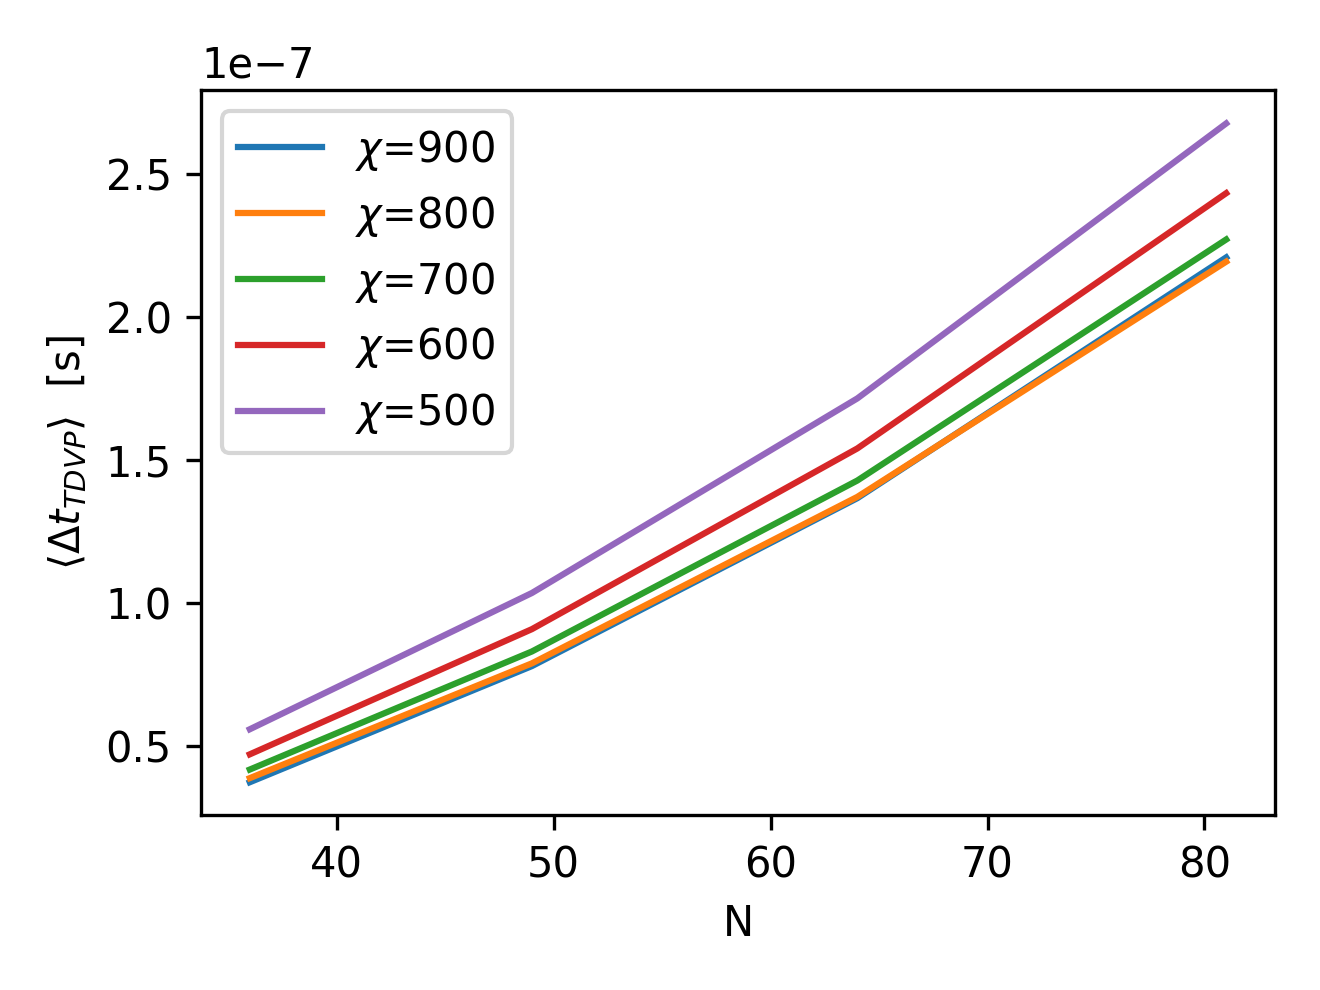
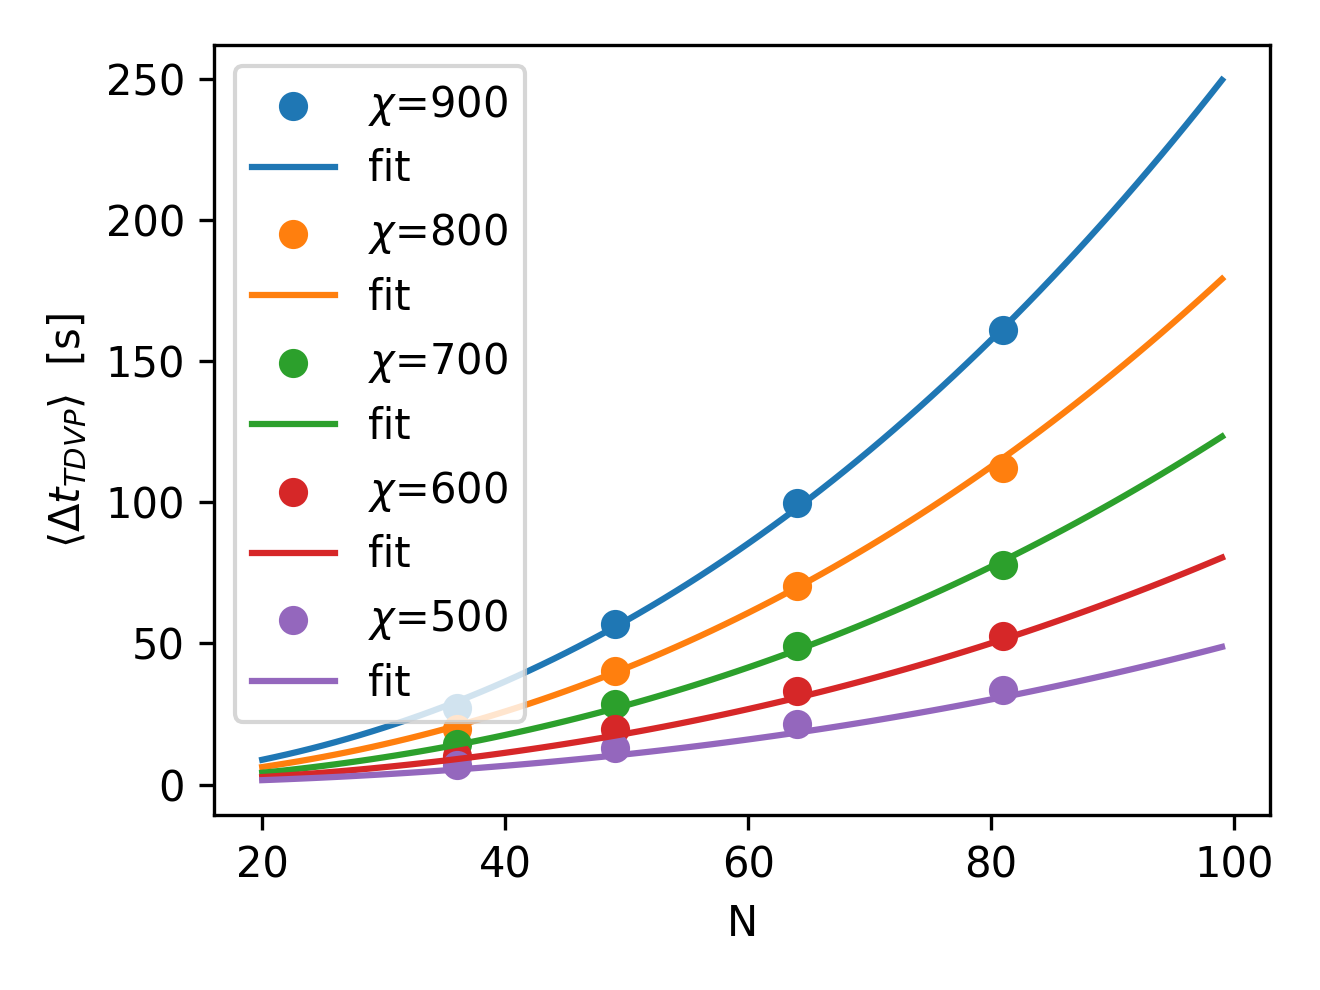
runtime fit and map

diff --git a/ci/emu_mps/benchmarks/tdvp_performance_gpu/plot_bechmark.py b/ci/emu_mps/benchmarks/tdvp_performance_gpu/plot_bechmark.py
@@ -2,8 +2,7 @@ from pathlib import Path
 import json
 import numpy as np
 import matplotlib.pyplot as plt
-
-# from scipy.optimize import curve_fit
+from scipy.optimize import curve_fit
 
 script_dir = Path(__file__).parent
 res_dir = script_dir / "results"
@@ -39,18 +38,22 @@ def worstRSS(chi, n, krylov_dim):
     return 4 * (chi**2) * (n**2 + 34 * n + 16 * krylov_dim + 64) / 1e9
 
 
+# to numpy
+N = np.array([n**2 for n in N])
+bond_dims = np.array(bond_dims)
+
 scale_factor = 1.1
 figsize = (scale_factor * 4, scale_factor * 3)
 dpi = 300
 
 fig, ax = plt.subplots(figsize=figsize)
 for i, chi in enumerate(bond_dims):  # /chi**2
-    ax.scatter(np.array(N) ** 2, RSS[i, :] / chi**2, label=rf"$\chi$={chi}")
+    ax.scatter(N, RSS[i, :] / chi**2, label=rf"$\chi$={chi}")
 ax.plot(
     np.arange(10, 100, 1),
     worstRSS(1, np.arange(10, 100, 1), 30),
     color="black",
-    label=r"$maxRSS(N,k=30)$",
+    label=r"$m(N,\chi,k=30)/\chi^2$",
 )
 ax.legend()
 ax.set_xlabel("N")
@@ -58,24 +61,27 @@ ax.set_ylabel(r"RSS/ $\chi^2$ [GB]")
 plt.tight_layout()
 plt.savefig(script_dir / "RSS_vs_N.png")
 
-fig, ax = plt.subplots(figsize=figsize, dpi=dpi)
-for i, n in enumerate(N):
-    ax.scatter(bond_dims, RSS[:, i], label=f"N = {n**2}")
-    ax.plot(
-        np.arange(400, 1000, 1),
-        worstRSS(np.arange(400, 1000, 1), n**2, 30),
-        color="black",
-        label=r"$maxRSS(N,k=30)$",
-    )
-ax.legend()
-ax.set_xlabel(r"$\chi$")
-ax.set_ylabel("RSS [GB]")
-plt.tight_layout()
-plt.savefig(script_dir / "RSS_vs_bond_dim.png")
+# RUNTIME
+
+# runtime 2D fit
+X, Y = np.meshgrid(N, bond_dims)
+
+
+def func(xy, b, c):
+    x, y = xy
+    # return a + b * x + c * y + d * x**2 + e * y**2 + f * x * y
+    return b * (x**2) * (y**3) + c * (x**3) * (y**2)
+
+
+# Perform curve fitting
+popt, pcov = curve_fit(func, (X.flatten(), Y.flatten()), runtime.flatten())
+
 
 fig, ax = plt.subplots(figsize=figsize, dpi=dpi)
-for i, chi in enumerate(bond_dims):  # / chi**3
-    ax.plot(np.array(N) ** 2, runtime[i, :] / chi**3, label=rf"$\chi$={chi}")
+n_fit = np.arange(20, 100, 1)
+for i, chi in enumerate(bond_dims):
+    ax.scatter(N, runtime[i, :], label=rf"$\chi$={chi}")
+    ax.plot(n_fit, func([n_fit, chi], *popt), label="fit")
 ax.legend()
 ax.set_xlabel("N")
 ax.set_ylabel(r"$\langle\Delta t_{TDVP}\rangle$  [s]")
@@ -83,10 +89,50 @@ plt.tight_layout()
 plt.savefig(script_dir / "runtime_vs_N.png")
 
 fig, ax = plt.subplots(figsize=figsize, dpi=dpi)
-for i, n in enumerate(N):  # / n**2
-    ax.plot(bond_dims, runtime[:, i] / n**4, label=f"N = {n**2}")
+chi_fit = np.arange(200, 1000, 10)
+for i, n in enumerate(N):
+    ax.scatter(bond_dims, runtime[:, i], label=f"N={n}")
+    ax.plot(chi_fit, func([n, chi_fit], *popt), label="fit")
 ax.legend()
 ax.set_xlabel(r"$\chi$")
 ax.set_ylabel(r"$\langle\Delta t_{TDVP}\rangle$")
 plt.tight_layout()
 plt.savefig(script_dir / "runtime_vs_bond_dim.png")
+
+print(*popt)
+print(pcov)
+print("perr:", np.sqrt(np.diag(pcov)))
+
+""" # Create 3D plot of the data points and the fitted curve
+fig = plt.figure()
+ax = fig.add_subplot(111, projection="3d")
+ax.scatter(X, Y, runtime, color="blue")
+runtime_fit = func((X, Y), *popt)
+ax.plot_surface(X, Y, runtime_fit, color="red", alpha=0.5)
+ax.set_xlabel("X")
+ax.set_ylabel("Y")
+ax.set_zlabel("Z")
+
+plt.savefig(script_dir / "prova_fit.png") """
+
+
+delta = 1
+chi = np.arange(0, 2050, delta)
+n = np.arange(0, 205, delta)
+N, CHI = np.meshgrid(n, chi)
+
+runtime_estimate = func((N, CHI), *popt)
+
+# plot
+fig, ax = plt.subplots(figsize=(4, 3), dpi=300)
+
+levels = [0, 1, 5, 10, 50, 100, 500, 1000]
+CS = ax.contourf(N, CHI, runtime_estimate, cmap="viridis", levels=levels)
+CS2 = ax.contour(N, CHI, runtime_estimate, colors="k", linewidths=0.5, levels=levels)
+fig.colorbar(CS, ax=ax, label=r"$\langle\Delta t\rangle$ [s]")
+ax.set_title("EMU-MPS")
+ax.set_xlabel("N")
+ax.set_ylabel(r"$\chi$")
+
+plt.tight_layout()
+plt.savefig(script_dir / "emumps_runtime_map.png")
